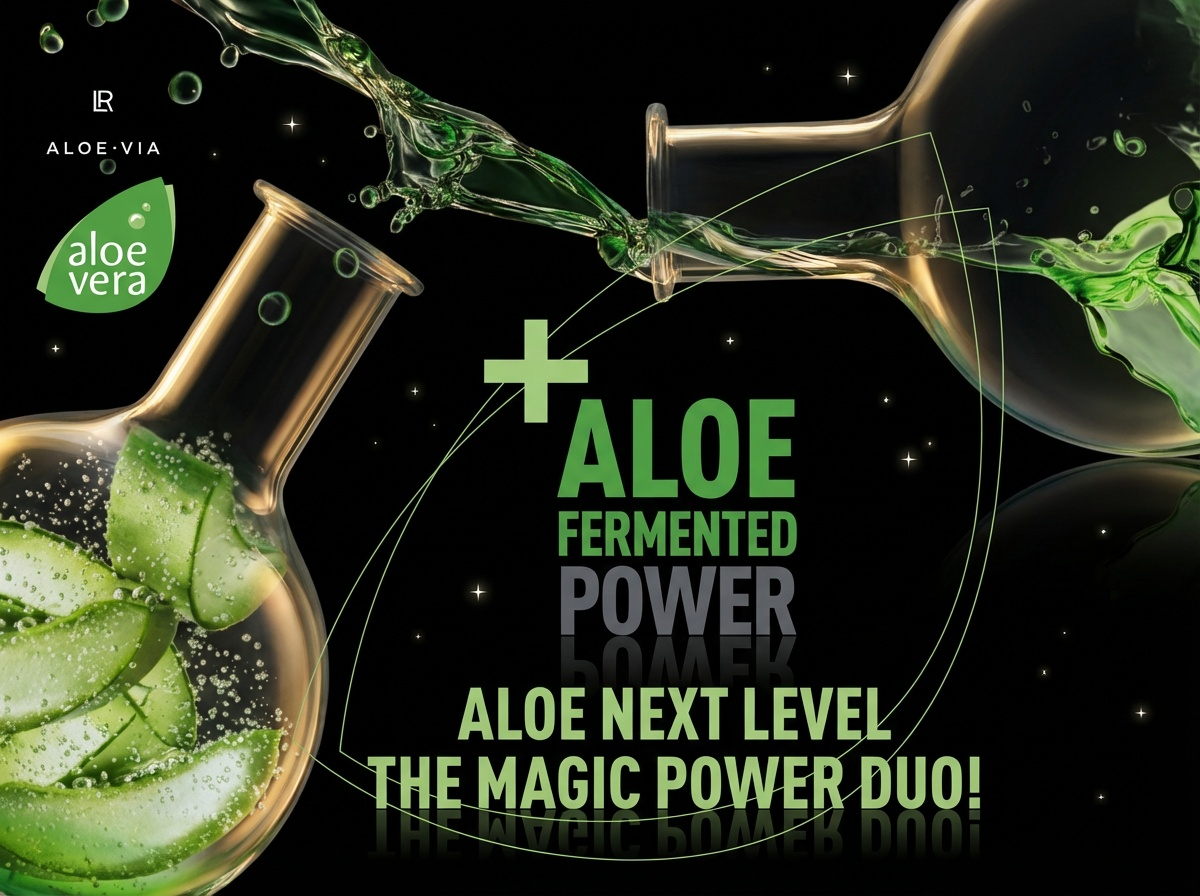
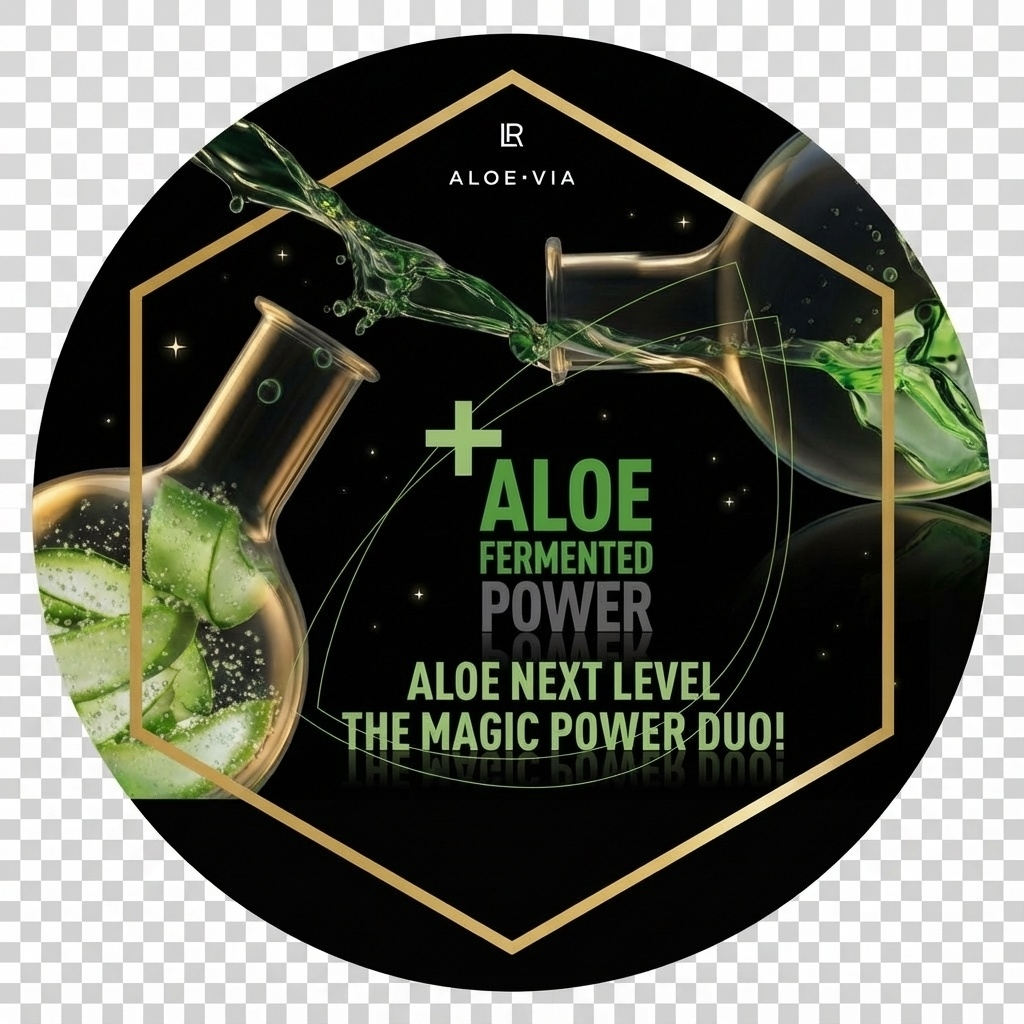
Replace Folie 8 circle images with new optimized versions and remove custom zoom/position

diff --git a/slides/folie_08.html b/slides/folie_08.html
@@ -299,17 +299,6 @@
             transform: scale(1.14);
             transform-origin: 50% 50%;
         }
-        /* Folie 8 - Scale left circle (dermatest) more */
-        .circles-container .circle-item:nth-child(1) .circle-image {
-            transform: scale(1.40);
-            transform-origin: 50% 50%;
-        }
-        /* Folie 8 - Scale middle circle (fermentiert) more and shift right */
-        .circles-container .circle-item:nth-child(2) .circle-image {
-            transform: scale(1.70);
-            transform-origin: 50% 50%;
-            object-position: 60% 50%;
-        }
   </style>
   <link href="assets/css/effects_white.css" rel="stylesheet"/>
  </head>
